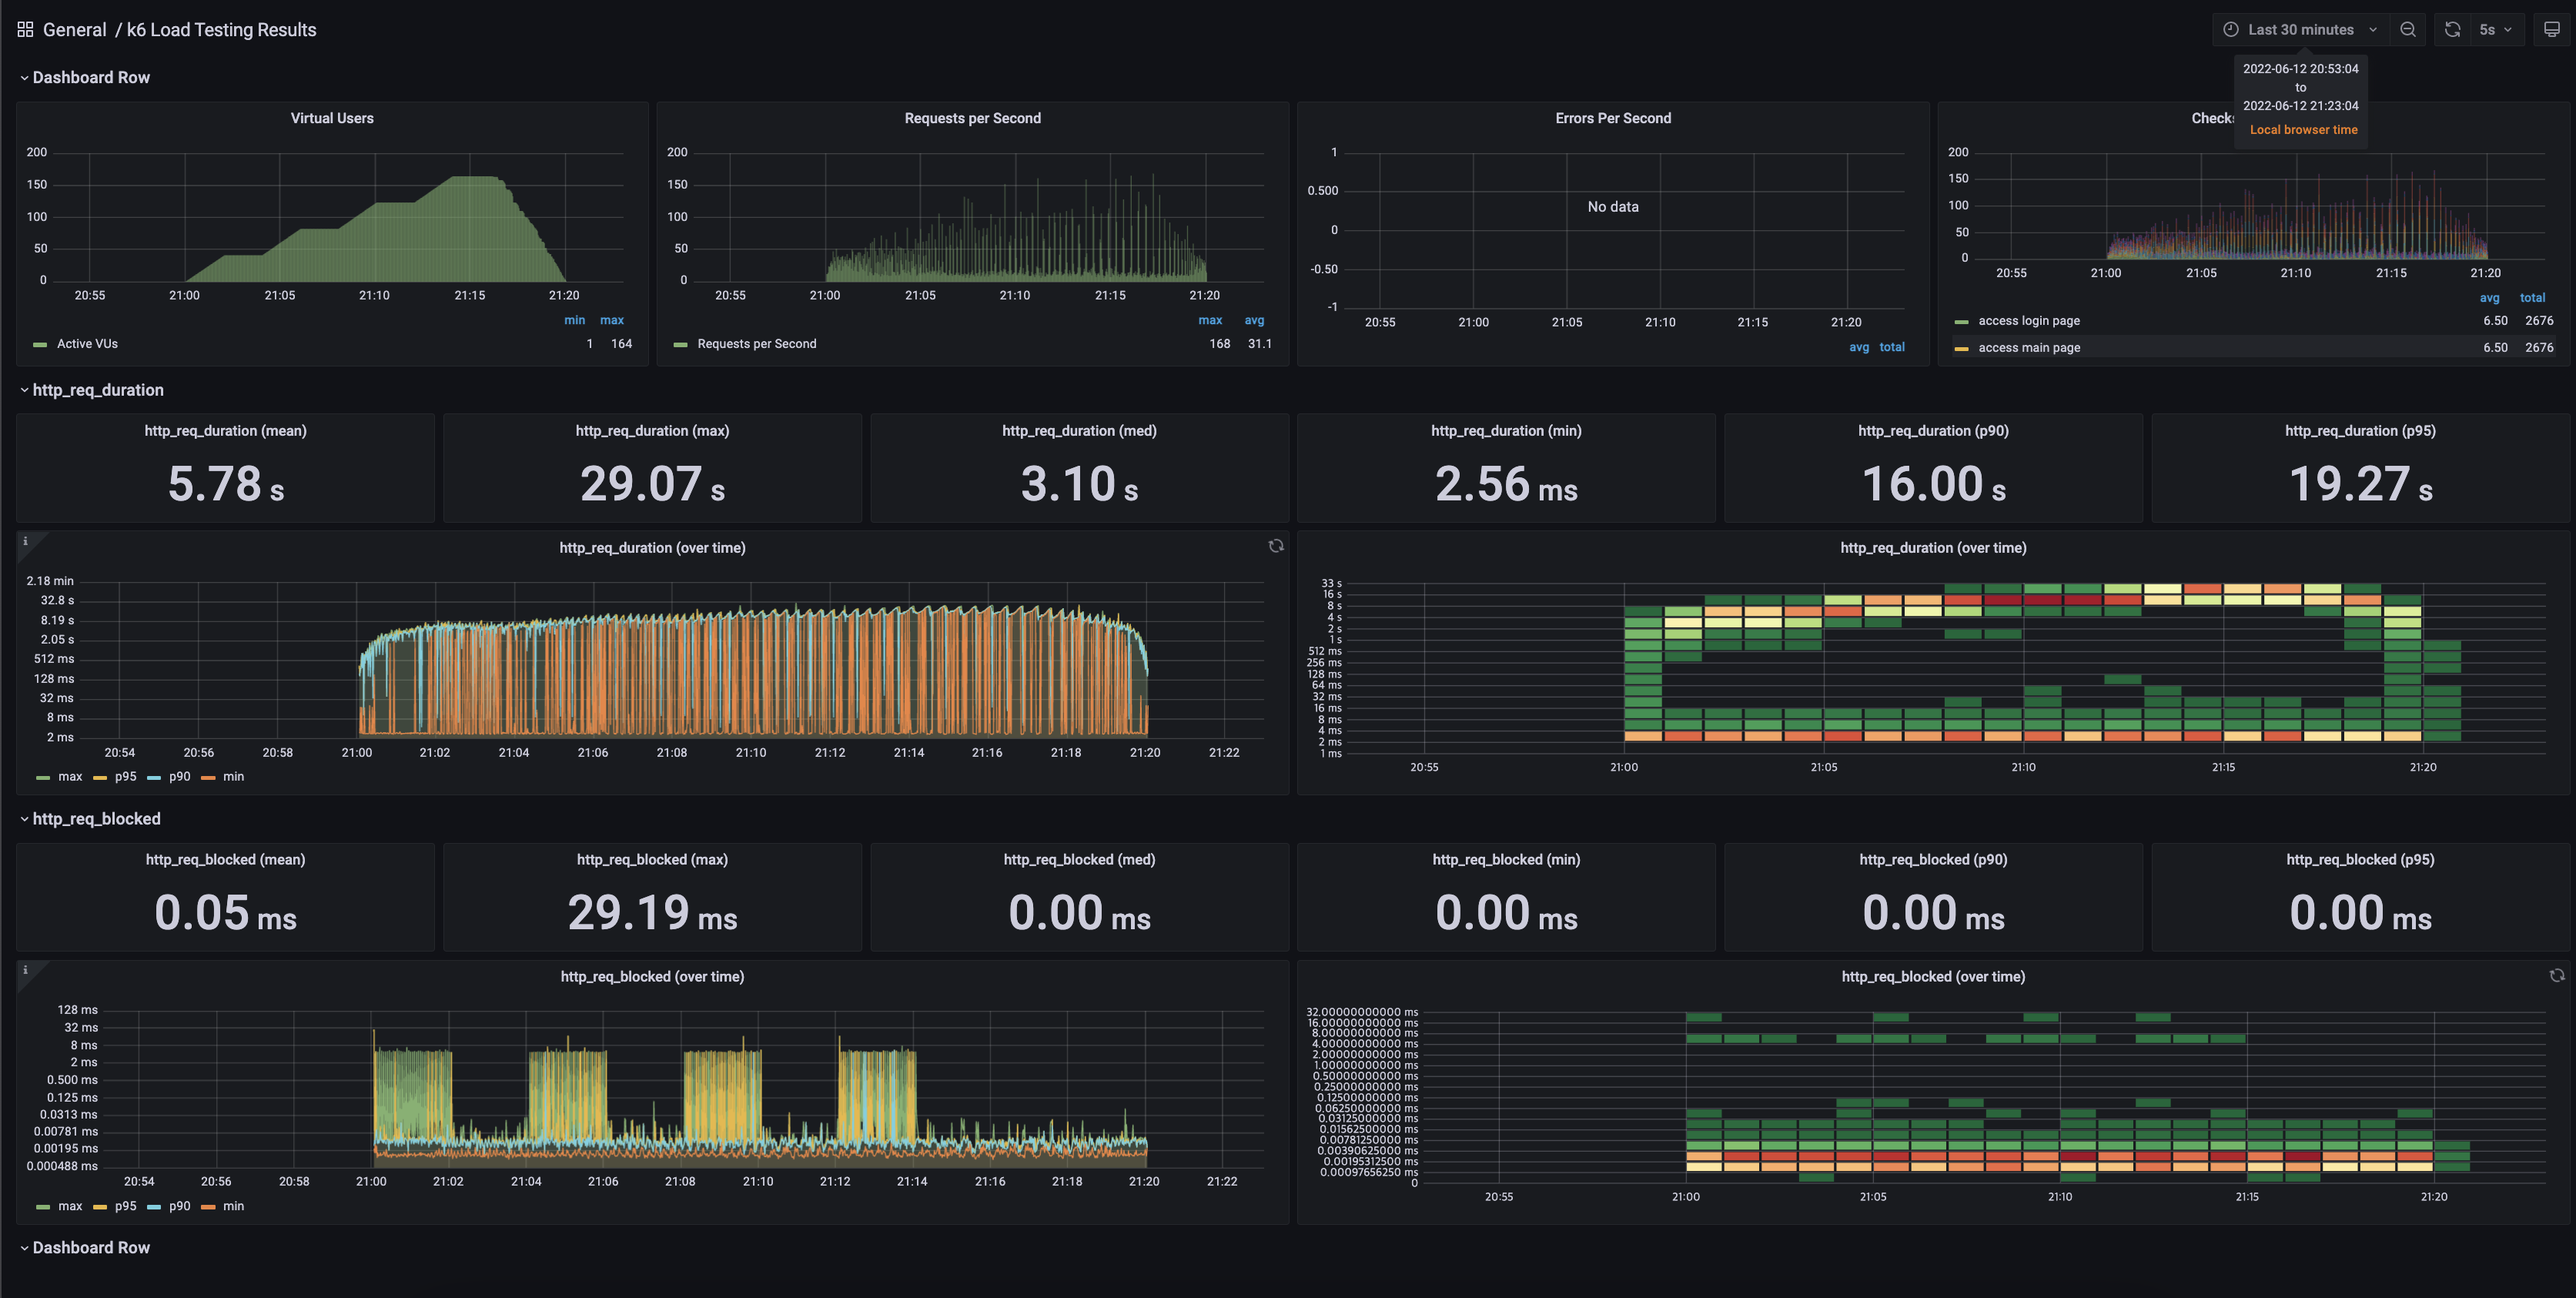
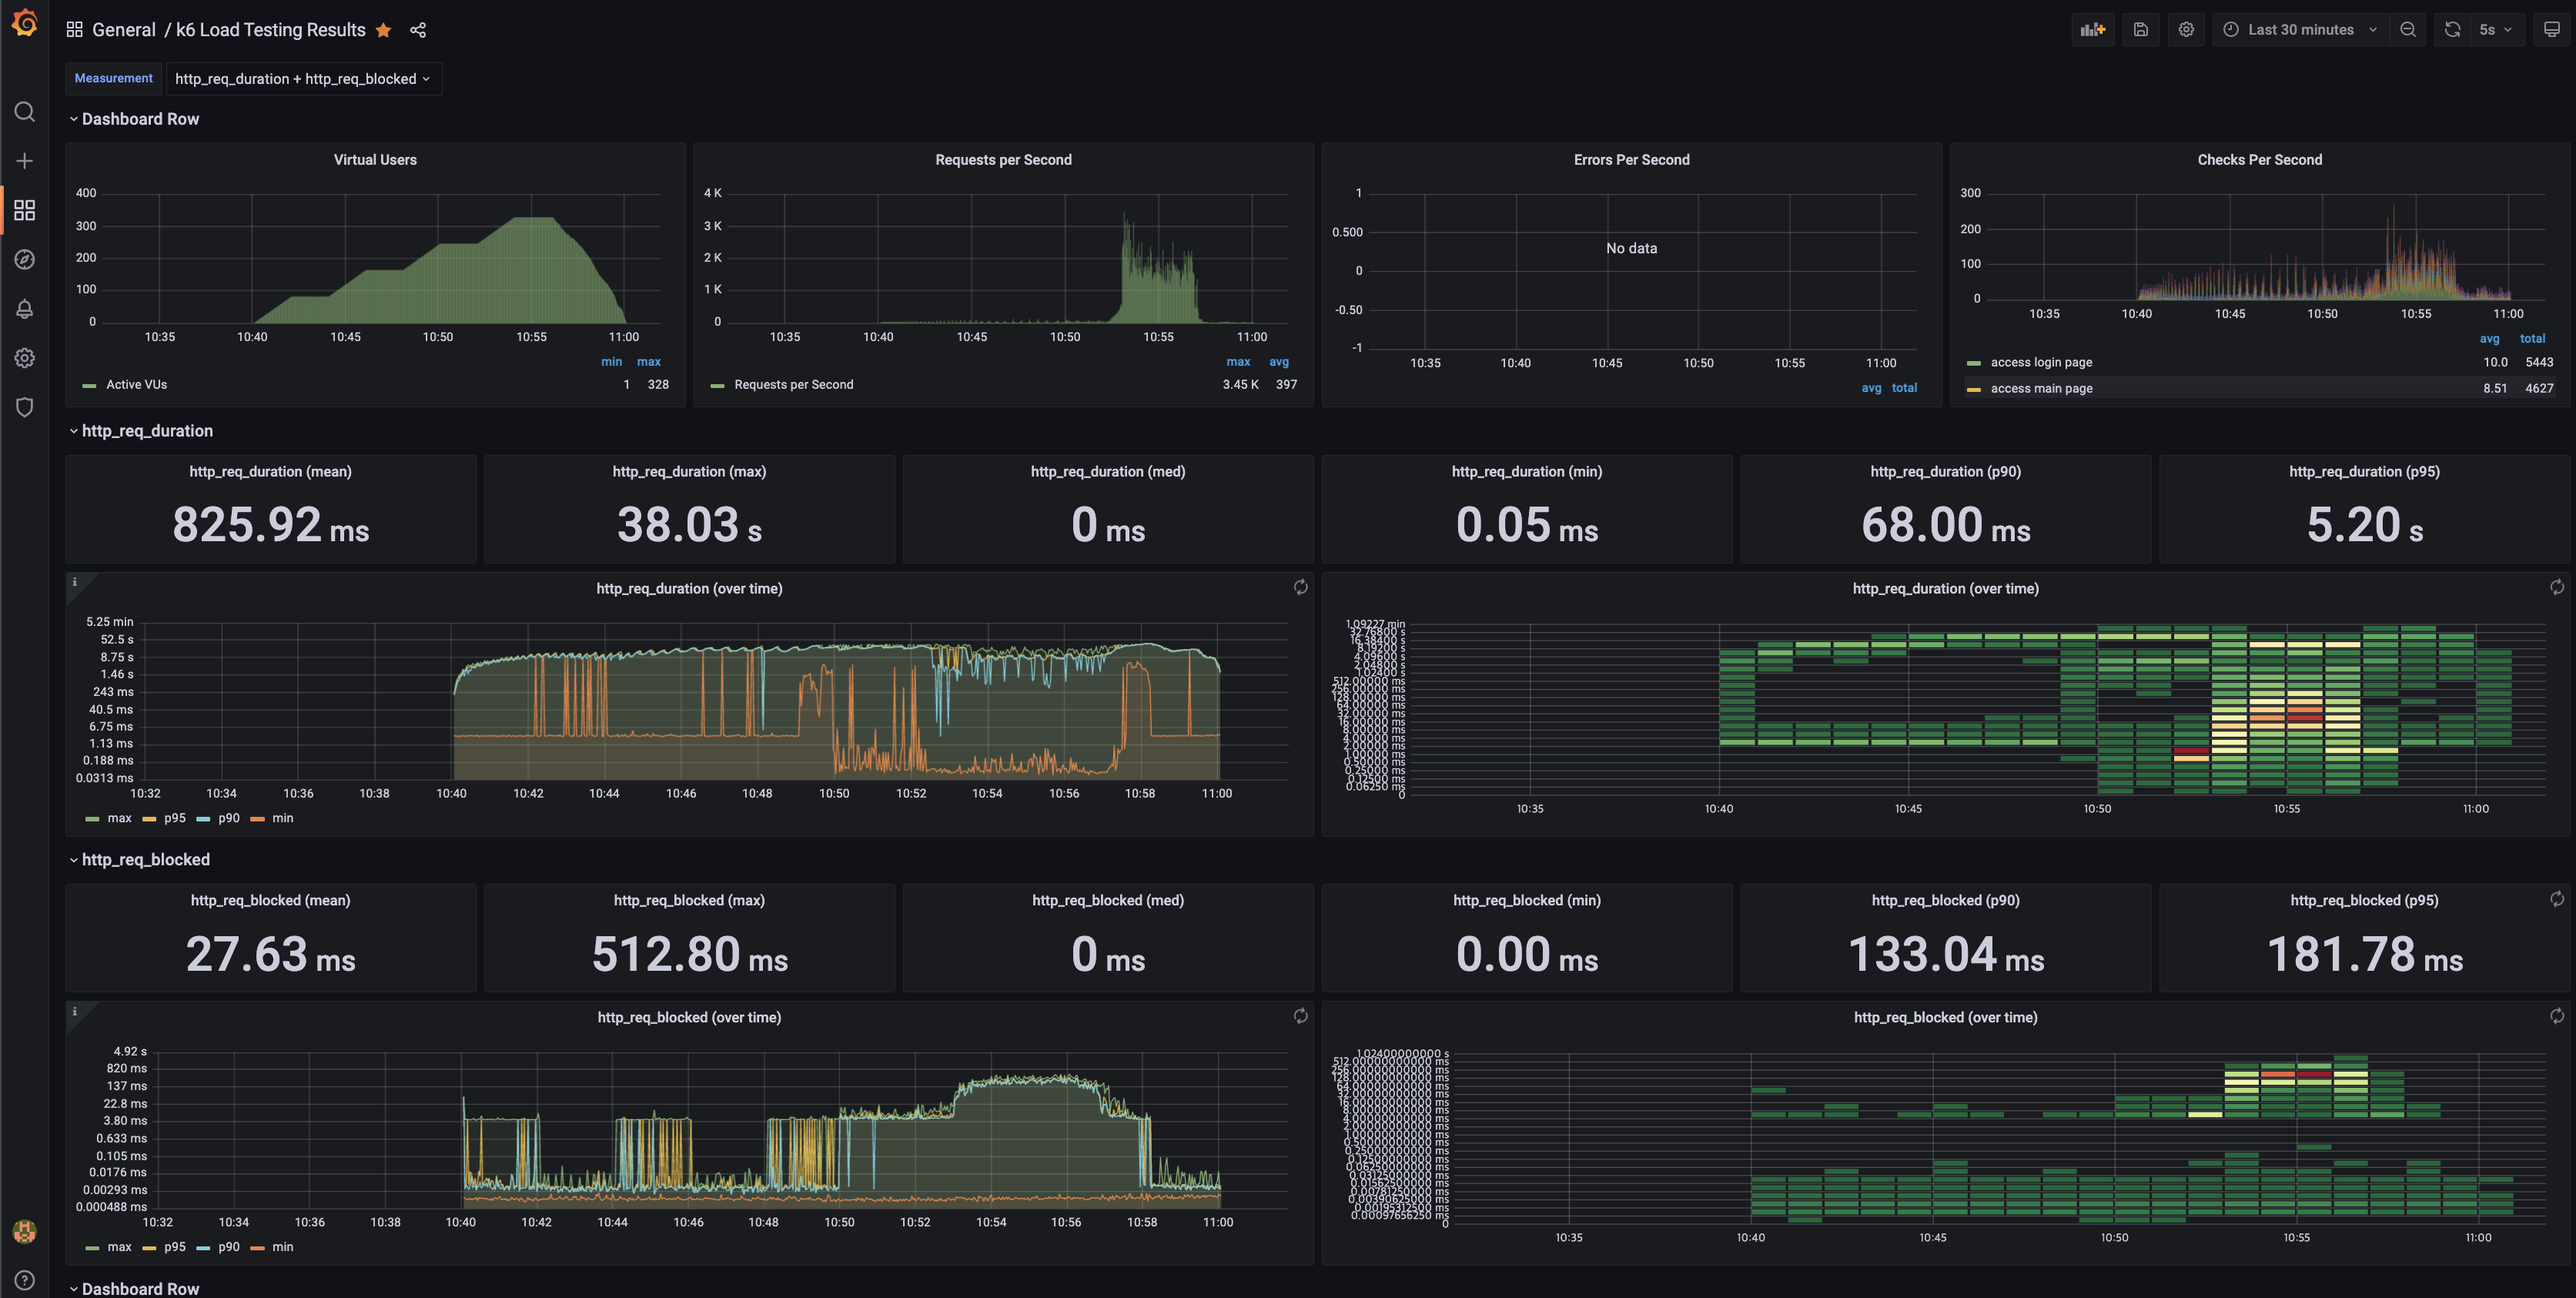
fix: stress test 조건 변경 및 결과 첨부

diff --git a/docs/step2/stress/stress.js b/docs/step2/stress/stress.js
@@ -3,14 +3,14 @@ import { check, group, sleep, fail } from 'k6';
 
 export let options = {
     stages: [
-        { duration: '2m', target: 41 },
-        { duration: '2m', target: 41 },
         { duration: '2m', target: 82 },
         { duration: '2m', target: 82 },
-        { duration: '2m', target: 123 },
-        { duration: '2m', target: 123 },
         { duration: '2m', target: 164 },
         { duration: '2m', target: 164 },
+        { duration: '2m', target: 246 },
+        { duration: '2m', target: 246 },
+        { duration: '2m', target: 328 },
+        { duration: '2m', target: 328 },
         { duration: '4m', target: 0 },
     ],
     thresholds: {
